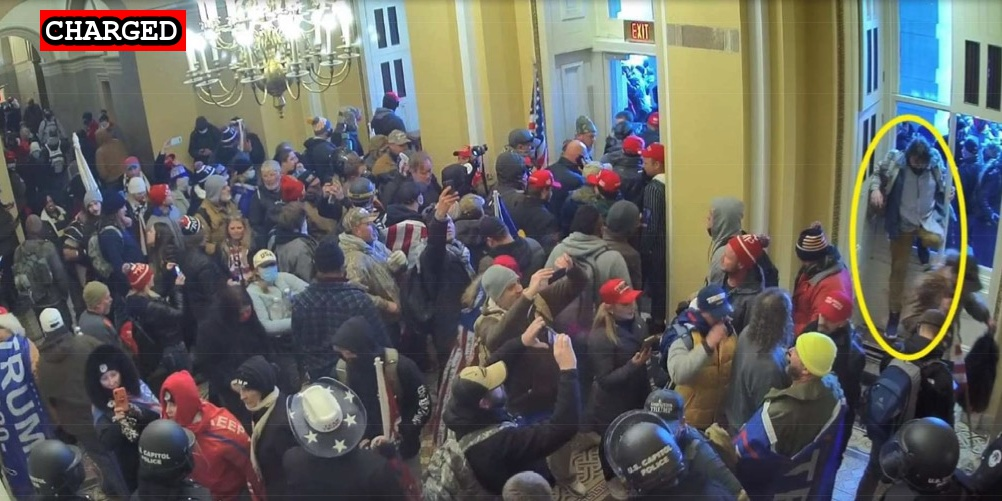
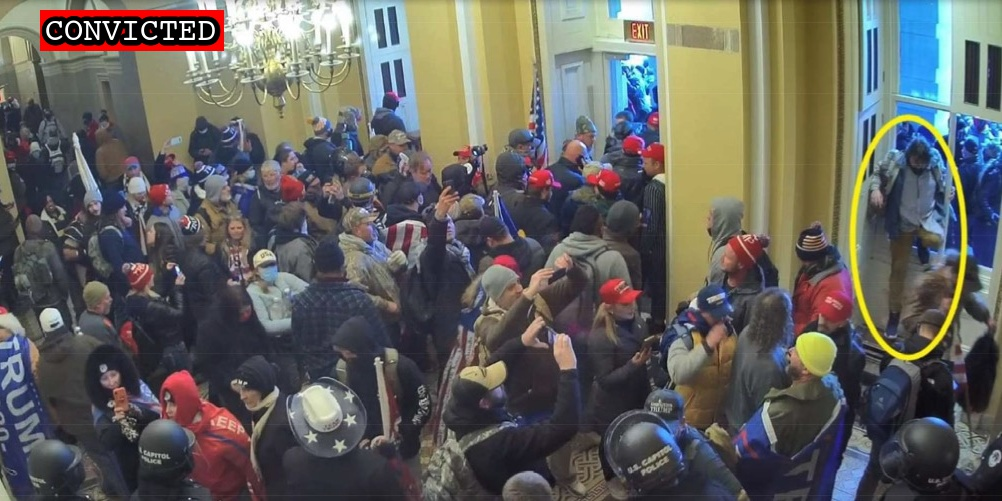
Christmann plea

Changed region(s): [[0.0309, 0.0, 0.2475, 0.1198]]

diff --git a/docs/_suspects/daniel-christmann.md b/docs/_suspects/daniel-christmann.md
@@ -4,11 +4,11 @@ lastName: Christmann
 hashtag: DanielChristmann
 aka:
 residence: New York
-status: Charged
+status: Convicted
 date: 2021-07-16
 charged: 2021-07-16
 indicted:
-convicted:
+convicted: 2022-11-28
 acquitted:
 sentenced:
 dismissed:
@@ -31,7 +31,7 @@ raid:
 perpwalk:
 quote: 'Yeah im [sic] not going to lie. I wasn’t one of the first people in. When realized [sic] it was happening I was scaling walls and shit'
 title: Daniel Christmann charged on July 16, 2021
-description: Click for latest case details. Suspects innocent until proven guilty.
+description: Convicted on November 28, 2022. Click for latest case details.
 author: seditiontrack
 layout: suspect
 published: true
@@ -40,6 +40,10 @@ caseName: USA v. CHRISTMANN
 judge: Colleen Kollar-Kotelly
 videos:
 charges:
+- code: 40 USC § 5104(e)(2)(G)
+  title: Parading, demonstrating or picketing in a Capitol building
+  url: https://www.law.cornell.edu/uscode/text/40/5104
+  felony: false
 sentence:
 ---
 - [News Report](https://www.nytimes.com/2021/07/28/nyregion/capitol-riot-brooklyn-plumber.html)
